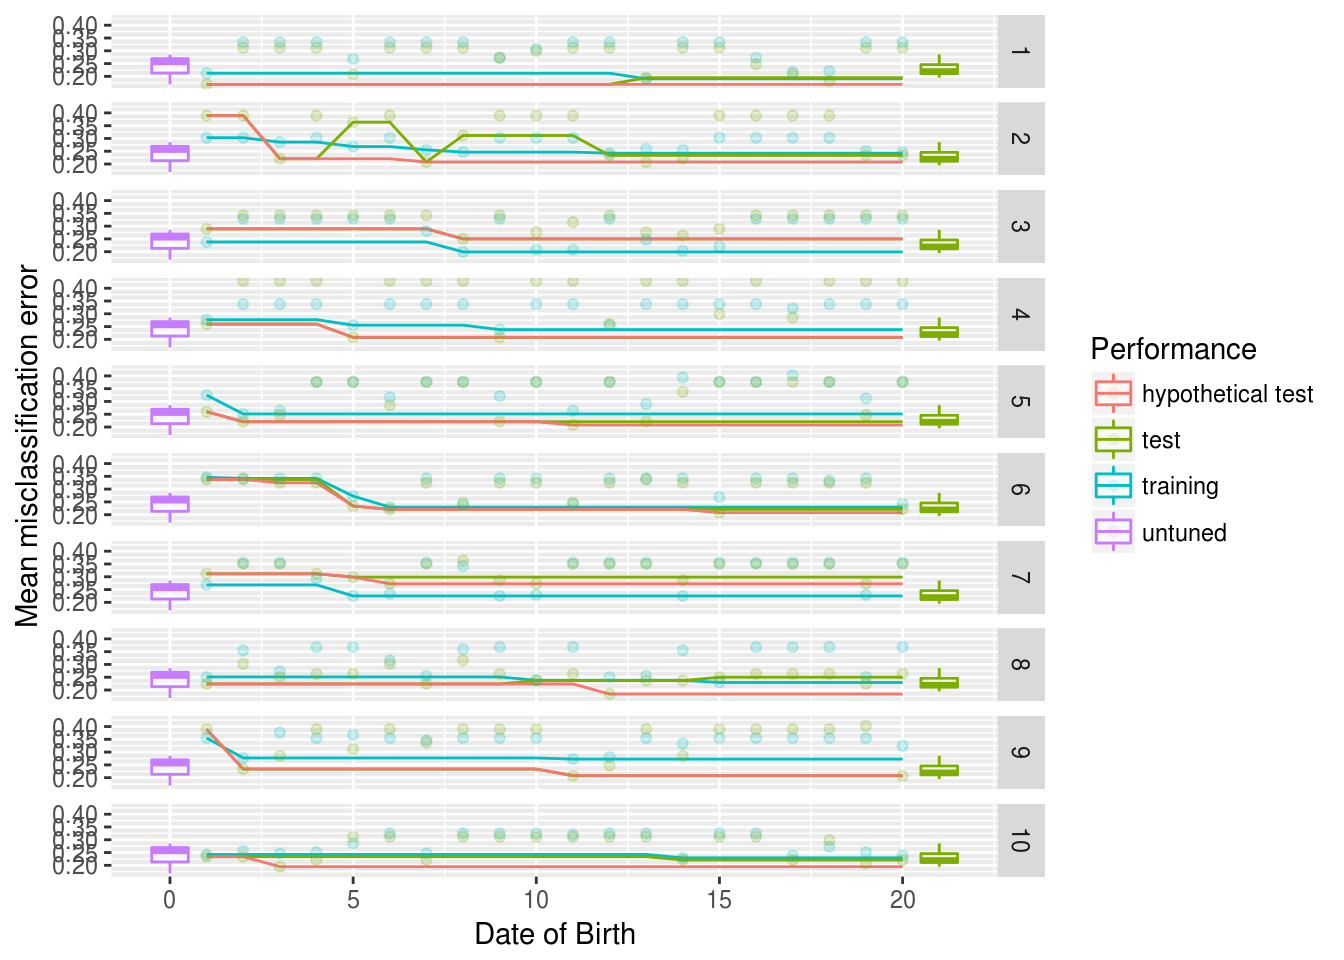
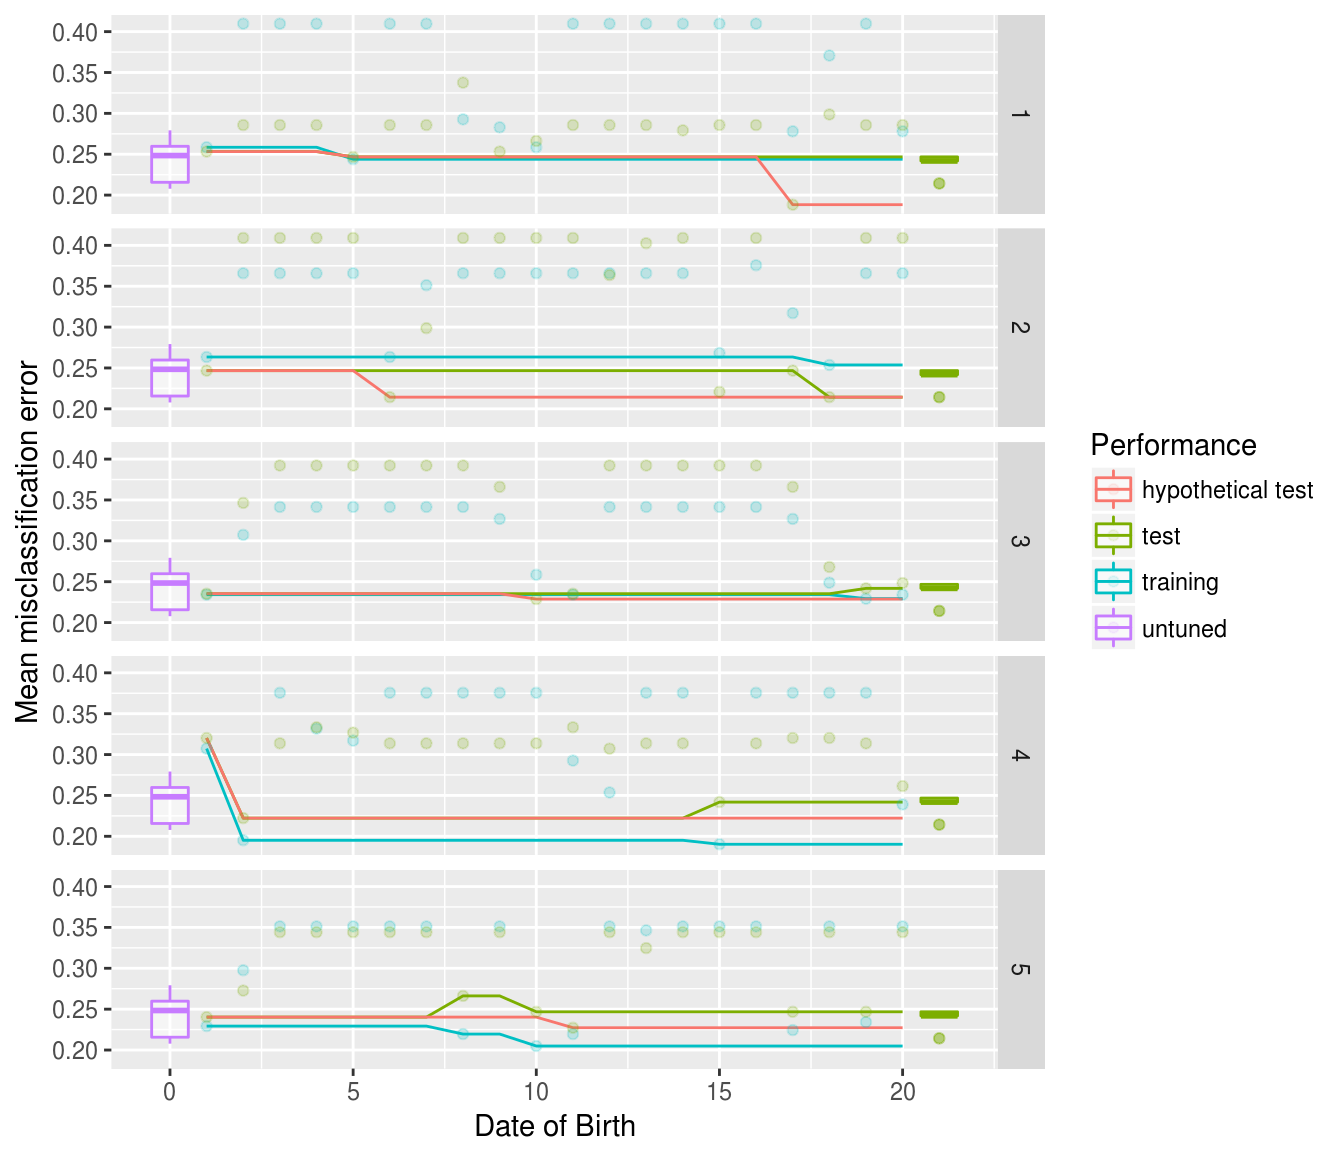
travis etc

diff --git a/docs/index.html b/docs/index.html
@@ -52,7 +52,16 @@
     
     
 <div class="contents">
+<div id="mlroverfit" class="section level1">
+<div class="page-header"><h1 class="hasAnchor">
+<a href="#mlroverfit" class="anchor"></a>mlrOverfit</h1></div>
 
+<p>Easy analysis of over-fitting effects based on <a href="https://github.com/mlr-org/mlr/#-machine-learning-in-r">mlr</a>.</p>
+<div id="motivation" class="section level2">
+<h2 class="hasAnchor">
+<a href="#motivation" class="anchor"></a>Motivation</h2>
+<p>In a tiny study I noticed that the tuning of hyper-parameters of machine learning methods often did not led to much better results then the default settings. This is often the case for fairly small datasets where the training data does not totally represent the true data. To study those effects I wrote this tiny package. Hopefully it can help you as well. Feedback is appreciated!</p>
+</div>
 <div id="demo" class="section level2">
 <h2 class="hasAnchor">
 <a href="#demo" class="anchor"></a>Demo</h2>
@@ -68,6 +77,16 @@ par.set =<span class="st"> </span><span class="kw">makeParamSet</span>(
 oa =<span class="st"> </span><span class="kw"><a href="reference/generateOverfitAnalysis.html">generateOverfitAnalysis</a></span>(<span class="dt">task =</span> sonar.task, <span class="dt">learner =</span> <span class="st">"classif.ranger"</span>, <span class="dt">par.set =</span> par.set)
 <span class="kw">plot</span>(oa)</code></pre></div>
 <p><img src="index_files/figure-html/demo.short-1.png" width="672"></p>
+<ul>
+<li>
+<strong>untuned</strong> is the performance the learner gives with the outer resampling without setting any hyper-parameters. This can also mean that heuristics are triggered inside of the learner that set the hyper-parameters.</li>
+<li>
+<strong>hypothetical test</strong> The best performance we have observed on the outer test set. This is something we typically don’t and shouldn’t know while tuning.</li>
+<li>
+<strong>test</strong> The performance on the outer test set, that we would have at this point using the hyper-parameters that led to the best performance on the inner resampling. If this curve goes up it indicates <strong>overfitting</strong>.</li>
+<li>
+<strong>training</strong> The best performance observed on the inner resampling so far.</li>
+</ul>
 </div>
 <div id="long" class="section level3">
 <h3 class="hasAnchor">
@@ -82,12 +101,14 @@ par.set =<span class="st"> </span><span class="kw">makeParamSet</span>(
 )
 tune.control =<span class="st"> </span><span class="kw">makeTuneControlRandom</span>(<span class="dt">maxit =</span> <span class="dv">20</span>)
 learner.tuned =<span class="st"> </span><span class="kw">makeTuneWrapper</span>(<span class="dt">learner =</span> learner, <span class="dt">resampling =</span> hout, <span class="dt">par.set =</span> par.set, <span class="dt">control =</span> tune.control)
-ro =<span class="st"> </span><span class="kw"><a href="reference/resampleOverfit.html">resampleOverfit</a></span>(<span class="dt">learner =</span> learner.tuned, <span class="dt">task =</span> task, <span class="dt">resampling =</span> cv10)
+ro =<span class="st"> </span><span class="kw"><a href="reference/resampleOverfit.html">resampleOverfit</a></span>(<span class="dt">learner =</span> learner.tuned, <span class="dt">task =</span> task, <span class="dt">resampling =</span> cv5)
 
 outer.errors =<span class="st"> </span><span class="kw"><a href="reference/calcOuterPerformances.html">calcOuterPerformances</a></span>(ro)
 outer.errors =<span class="st"> </span><span class="kw"><a href="reference/simulateOuterPerformance.html">simulateOuterPerformance</a></span>(outer.errors)
-<span class="kw">plot</span>(outer.errors, ro)</code></pre></div>
-<p><img src="index_files/figure-html/demo.long-1.png" width="672"></p>
+gg =<span class="st"> </span><span class="kw">plot</span>(outer.errors, ro)
+gg +<span class="st"> </span><span class="kw">facet_grid</span>(iter~.)</code></pre></div>
+<p><img src="index_files/figure-html/demo.long-1.png" width="672"> This time we plotted the performance without aggregation so you can see what is going on.</p>
+</div>
 </div>
 </div>
 </div>
@@ -102,7 +123,8 @@ outer.errors =<span class="st"> </span><span class="kw"><a href="reference/simul
 </ul>
 <h2>Dev status</h2>
 <ul class="list-unstyled">
-<li><a href="https://github.com/mlr-org/mlr/#-machine-learning-in-r">mlr</a></li>
+<li><a href="https://travis-ci.org/jakob-r/mlrOverfit"><img src="https://travis-ci.org/jakob-r/mlrOverfit.svg?branch=master" alt="Build Status"></a></li>
+<li><a href="https://coveralls.io/github/jakob-r/mlrOverfit?branch=master"><img src="https://coveralls.io/repos/github/jakob-r/mlrOverfit/badge.svg?branch=master" alt="Coverage Status"></a></li>
 </ul>
 </div>
 

diff --git a/README.md b/README.md
@@ -2,7 +2,17 @@ mlrOverfit
 ================
 Jakob Richter
 
-Easy analysis of overfitting effects based on [mlr](https://github.com/mlr-org/mlr/#-machine-learning-in-r).
+mlrOverfit
+==========
+
+[![Build Status](https://travis-ci.org/jakob-r/mlrOverfit.svg?branch=master)](https://travis-ci.org/jakob-r/mlrOverfit) [![Coverage Status](https://coveralls.io/repos/github/jakob-r/mlrOverfit/badge.svg?branch=master)](https://coveralls.io/github/jakob-r/mlrOverfit?branch=master)
+
+Easy analysis of over-fitting effects based on [mlr](https://github.com/mlr-org/mlr/#-machine-learning-in-r).
+
+Motivation
+----------
+
+In a tiny study I noticed that the tuning of hyper-parameters of machine learning methods often did not led to much better results then the default settings. This is often the case for fairly small datasets where the training data does not totally represent the true data. To study those effects I wrote this tiny package. Hopefully it can help you as well. Feedback is appreciated!
 
 Demo
 ----
@@ -20,7 +30,12 @@ oa = generateOverfitAnalysis(task = sonar.task, learner = "classif.ranger", par.
 plot(oa)
 ```
 
-![](README_files/figure-markdown_github/demo.short-1.png)
+![](README_files/figure-markdown_github-ascii_identifiers/demo.short-1.png)
+
+-   **untuned** is the performance the learner gives with the outer resampling without setting any hyper-parameters. This can also mean that heuristics are triggered inside of the learner that set the hyper-parameters.
+-   **hypothetical test** The best performance we have observed on the outer test set. This is something we typically don't and shouldn't know while tuning.
+-   **test** The performance on the outer test set, that we would have at this point using the hyper-parameters that led to the best performance on the inner resampling. If this curve goes up it indicates **overfitting**.
+-   **training** The best performance observed on the inner resampling so far.
 
 ### Long
 
@@ -35,11 +50,12 @@ par.set = makeParamSet(
 )
 tune.control = makeTuneControlRandom(maxit = 20)
 learner.tuned = makeTuneWrapper(learner = learner, resampling = hout, par.set = par.set, control = tune.control)
-ro = resampleOverfit(learner = learner.tuned, task = task, resampling = cv10)
+ro = resampleOverfit(learner = learner.tuned, task = task, resampling = cv5)
 
 outer.errors = calcOuterPerformances(ro)
 outer.errors = simulateOuterPerformance(outer.errors)
-plot(outer.errors, ro)
+gg = plot(outer.errors, ro)
+gg + facet_grid(iter~.)
 ```
 
-![](README_files/figure-markdown_github/demo.long-1.png)
+![](README_files/figure-markdown_github-ascii_identifiers/demo.long-1.png) This time we plotted the performance without aggregation so you can see what is going on.
